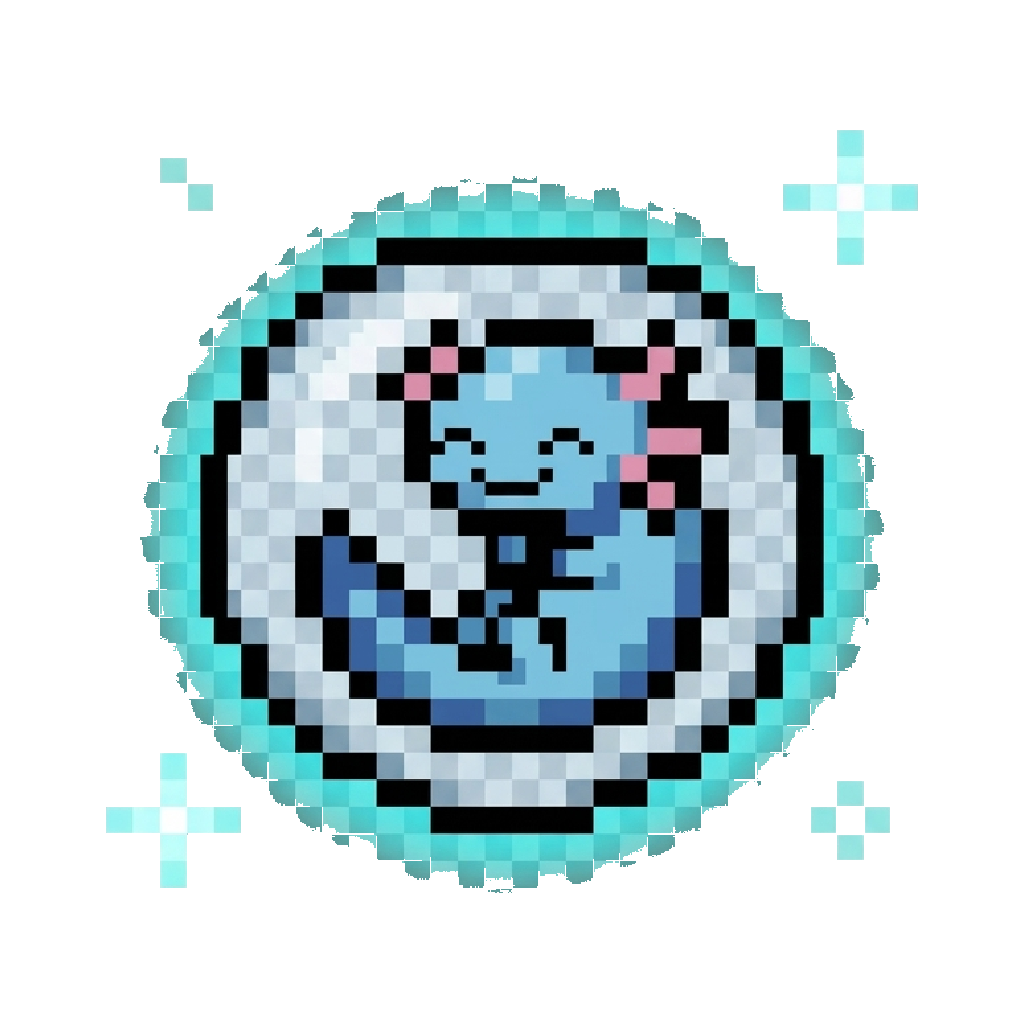
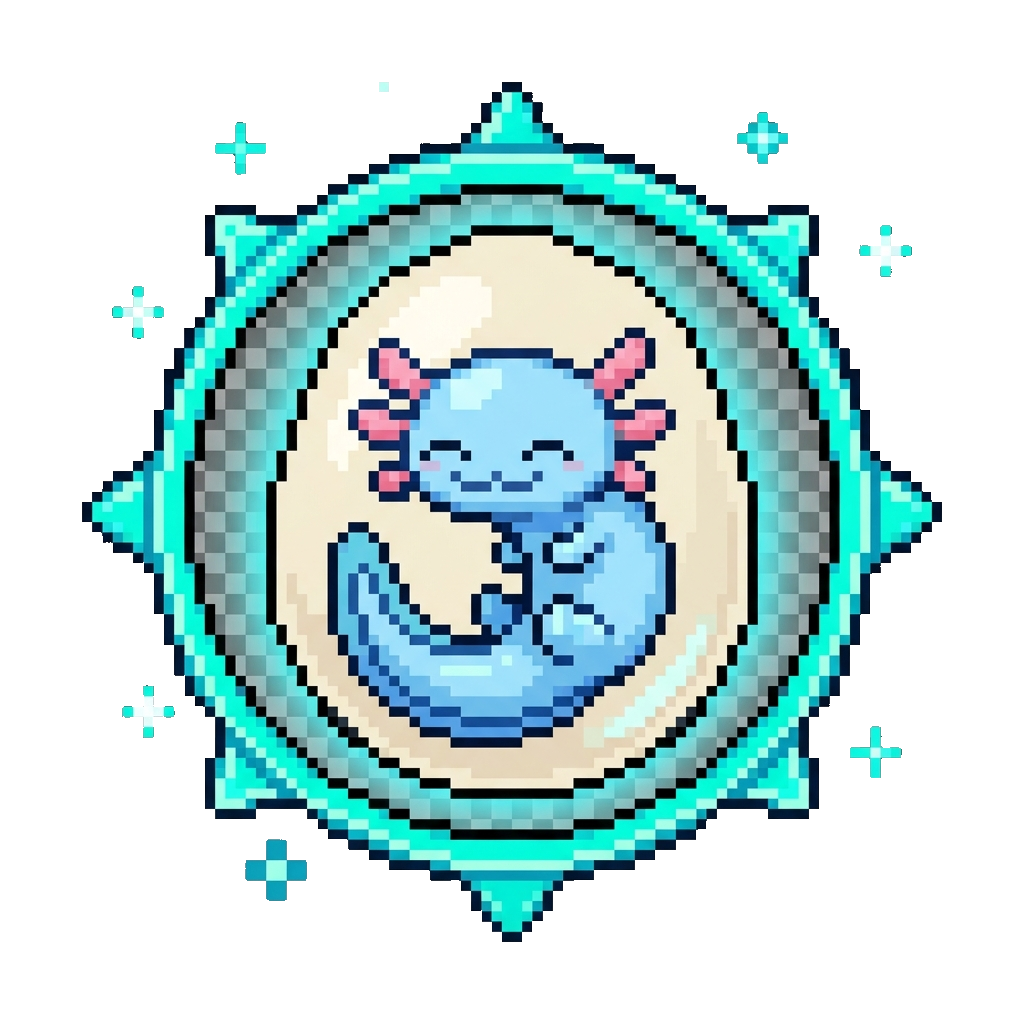
Bump HA-chores to 0.5.4: regenerate blue egg sprites at native resolution
The 0.5.3 fix kept the canvas size matching but used nearest-neighbor
upscaling, which coarsened the per-pixel density and made the blue eggs
look chunkier than the orange ones. Regenerated all three blue egg
variants (idle / happy / petted) from scratch with detailed prompts so the
pixel density matches its orange counterpart.

diff --git a/chores/CHANGELOG.md b/chores/CHANGELOG.md
@@ -1,3 +1,6 @@
+## 0.5.4
+- Blue egg sprites regenerated from scratch instead of being nearest-neighbor upscaled. The previous fix kept the canvas size matching but coarsened the per-pixel density, making the blue eggs look chunkier than the orange ones. The new generation has the same pixel density as the orange variants.
+
 ## 0.5.3
 - Sprite fixes — blue mythic "happy" regenerated (the previous version had extra limbs because the model re-posed the quadrupedal idle into a bipedal cheer)
 - Blue egg sprites (idle / happy / petted) rescaled to match the orange egg's subject size so both designs render at the same on-screen scale; nearest-neighbor upscale preserves pixel-art chunkiness
